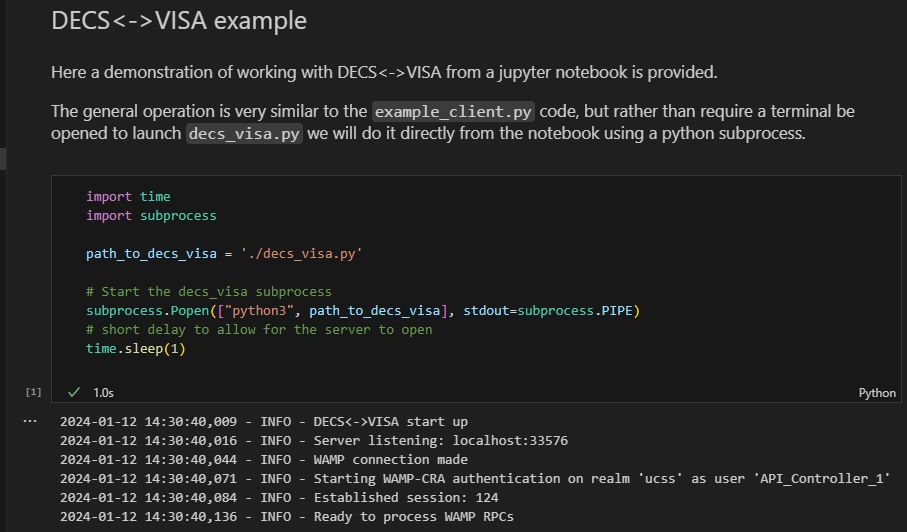
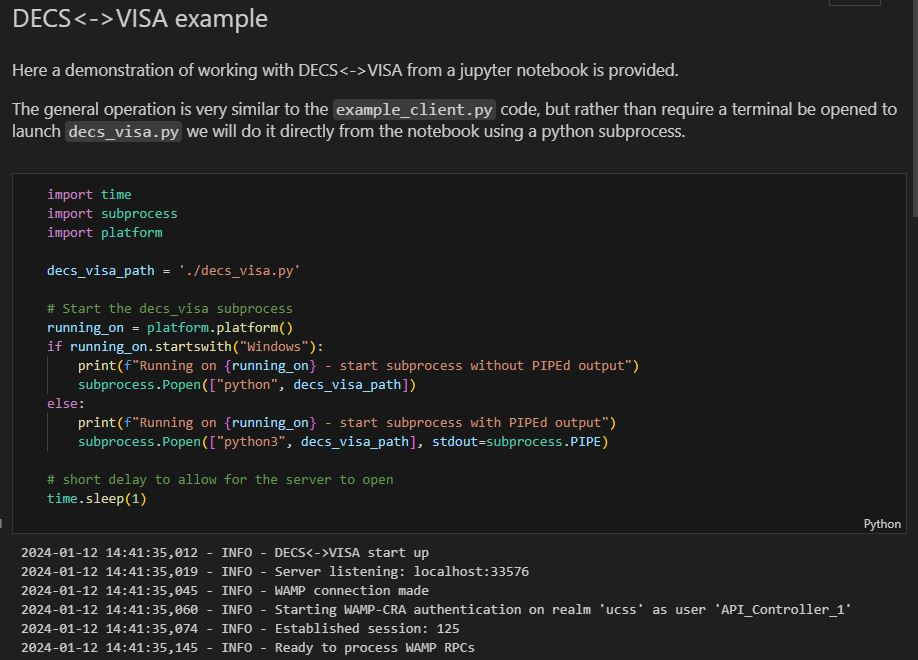
Tidy up and typo fix

diff --git a/src/decs_visa_tools/command_dictionary.py b/src/decs_visa_tools/command_dictionary.py
@@ -48,16 +48,16 @@ Proteox_cmd_uri = {
     "get_P5_P"          : "oi.decs.proteox.3CL_PG_05.pressure",
     "get_P6_P"          : "oi.decs.proteox.3CL_PG_06.pressure",
     "get_MAG_T"         : "oi.decs.magnetic_field_control.MAG_MSP_S.temperature",
-    "get_MAG_VEC"        : "oi.decs.magnetic_field_control.VRM_01.magnetic_field_vector",
-    "get_MAG_STATE"      : "oi.decs.magnetic_field_control.VRM_01.state",
-    "get_SWZ_STATE"      : "oi.decs.magnetic_field_control.VRM_01.SWZ.state",
-    "set_MAG_TARGET"     : "oi.decs.magnetic_field_control.VRM_01.set_field_target",
-    "set_MAG_STATE"      : "oi.decs.magnetic_field_control.VRM_01.set_state",
-    "set_MAG_X_STATE"    : "oi.decs.magnetic_field_control.VRM_01.MAG_X.set_state",
-    "set_MAG_Y_STATE"    : "oi.decs.magnetic_field_control.VRM_01.MAG_Y.set_state",
-    "set_MAG_Z_STATE"    : "oi.decs.magnetic_field_control.VRM_01.MAG_Z.set_state",
-    "get_MAG_CURR_VEC"   : "oi.decs.magnetic_field_control.VRM_01.current_vector",
-    "set_CURR_TARGET"    : "oi.decs.magnetic_field_control.VRM_01.set_output_current_target",
+    "get_MAG_VEC"       : "oi.decs.magnetic_field_control.VRM_01.magnetic_field_vector",
+    "get_MAG_STATE"     : "oi.decs.magnetic_field_control.VRM_01.state",
+    "get_SWZ_STATE"     : "oi.decs.magnetic_field_control.VRM_01.SWZ.state",
+    "set_MAG_TARGET"    : "oi.decs.magnetic_field_control.VRM_01.set_field_target",
+    "set_MAG_STATE"     : "oi.decs.magnetic_field_control.VRM_01.set_state",
+    "set_MAG_X_STATE"   : "oi.decs.magnetic_field_control.VRM_01.MAG_X.set_state",
+    "set_MAG_Y_STATE"   : "oi.decs.magnetic_field_control.VRM_01.MAG_Y.set_state",
+    "set_MAG_Z_STATE"   : "oi.decs.magnetic_field_control.VRM_01.MAG_Z.set_state",
+    "get_MAG_CURR_VEC"  : "oi.decs.magnetic_field_control.VRM_01.current_vector",
+    "set_CURR_TARGET"   : "oi.decs.magnetic_field_control.VRM_01.set_output_current_target",
     "PUBLISH"           : "oi.decs.proteox.eventlog",
     "get_a_WAMP_error"  : "oi.decs.THIS_WONT_WORK", # used for testing only
     "set_a_WAMP_error"  : "oi.decs.THIS_WONT_WORK"

diff --git a/src/decs_visa_tools/base_logger.py b/src/decs_visa_tools/base_logger.py
@@ -1,29 +1,30 @@
 """
 Logging module
 """
- 
+
 import logging
 import platform
- 
+
 # Set up logs
 logger = logging.getLogger(__name__)
- 
+
 # Log everything / something
 #logger.setLevel(logging.DEBUG)
 logger.setLevel(logging.INFO)
+
 formatter = logging.Formatter('%(asctime)s - %(levelname)s - %(message)s')
- 
+
 running_on = platform.platform()
 if running_on.startswith("Windows"):
     fh = logging.FileHandler('decs_visa.log')
     fh.setLevel(logging.DEBUG)
     fh.setFormatter(formatter)
     logger.addHandler(fh)
-    logger.info(f'OS is: {running_on}')
+    logger.info("OS is: %s", running_on)
 else:
-    # For now, log to console (to allow PIPEd output)
+    # log to console (to allow PIPEd output)
     ch = logging.StreamHandler()
     ch.setLevel(logging.DEBUG)
     ch.setFormatter(formatter)
     logger.addHandler(ch)
-    logger.info(f'OS is: {running_on}')
+    logger.info("OS is: %s", running_on)

diff --git a/src/decs_visa_components/wamp_component.py b/src/decs_visa_components/wamp_component.py
@@ -3,8 +3,6 @@ The WAMP portion of the DECS<->VISA implementation
 """
 import asyncio
 import queue
-#from typing import Optional
-#from typing import cast
 
 from autobahn.asyncio.wamp import ApplicationSession
 from autobahn.wamp import exception as wamp_exceptions
@@ -287,7 +285,7 @@ class Component(ApplicationSession):
                         host_version_full = await self.checked_rpc(rpc_uri)
                         version = str(host_version_full.results[0])
                         logger.debug("Extractracted values: %s", version)
-                        idn_string = f"Oxford Instruments, oi:DECS, {host_name}, {version}"
+                        idn_string = f"Oxford Instruments, oi.DECS, {host_name}, {version}"
                         logger.debug("IDN string: %s", idn_string)
                         r.put(idn_string)
                     except Exception:

diff --git a/README.md b/README.md
@@ -1,16 +1,16 @@
 # DECS<->VISA
 
-A simple TCP socket server as a WAMP wrapper for communication with oi:DECS based systems.
+A simple TCP socket server as a WAMP wrapper for communication with oi.DECS based systems.
 
 ## Motivation
 
-Given that oi:DECS based systems already expose an API *via* [WAMP](https://wamp-proto.org/) (a WebSocket sub-protocol) which provides multi-user support, authentication, authorisation, both routed remote procedure call (rRPC) and publish-subscribe messaging paradigms, and allows for efficient asynchronous (event-driven) interactions; an obvious question may be: why not just use that?
+Given that oi.DECS based systems already expose an API *via* [WAMP](https://wamp-proto.org/) (a WebSocket sub-protocol) which provides multi-user support, authentication, authorisation, both routed remote procedure call (rRPC) and publish-subscribe messaging paradigms, and allows for efficient asynchronous (event-driven) interactions; an obvious question may be: why not just use that?
 
-In essence, because it is often the case that an oi:DECS based system (such as dilution refrigerator) is used as part of a larger measurement / data acquisition system, often including programmable instruments.  Many of these instruments will conform to standards, such as the Virtual Instrument Software Architecture (VISA).
+In essence, because it is often the case that an oi.DECS based system (such as dilution refrigerator) is used as part of a larger measurement / data acquisition system, often including programmable instruments.  Many of these instruments will conform to standards, such as the Virtual Instrument Software Architecture (VISA).
 
-The intention of the DECS<->VISA interface is to allow 'straightforward' integration of oi:DECS based systems with other instrumentation, or existing measurement automation / data acquisition software that may have been written around the operation of traditional programmable instruments.
+The intention of the DECS<->VISA interface is to allow 'straightforward' integration of oi.DECS based systems with other instrumentation, or existing measurement automation / data acquisition software that may have been written around the operation of traditional programmable instruments.
 
-DECS<->VISA is also the basis for the oi:DECS [QCoDeS](http://microsoft.github.io/Qcodes/) driver.
+DECS<->VISA is also the basis for the oi.DECS [QCoDeS](http://microsoft.github.io/Qcodes/) driver.
 
 ## Concept
 
@@ -52,11 +52,9 @@ Add the system credentials (username and password) to WAMP_USER and WAMP_USER_SE
 
 Keeping this password in the `.env` file means that this information is kept separate from your code - ensure your `.gitignore` file is updated so to not track this/these file(s).  You can create `.env` files from the dummy file template included in the `/src`.
 
-The `WAMP_ROUTER_URL` should be updated to reflect the network settings for the system installation. In place of `www.xxx.yyy.zzz`, add the IP address of your oiDECS system. The IP address for your system can be found from the 'System' tab on the oi:DECS GUI under 'About'.
+The `WAMP_ROUTER_URL` should be updated to reflect the network settings for the system installation. In place of `www.xxx.yyy.zzz`, add the IP address of your oi.DECS system. The IP address for your system can be found from the 'System' tab on the oi.DECS GUI under 'About'.
 
-All other details in the `.env` file are not to be changed.
-
-These details are used by the 'wamp_component' to establish a controlling session on the oi:DECS system.
+These details are used by the 'wamp_component' to establish a controlling session on the oi.DECS system.
 
 
 **2. The `decs_visa_tools/decs_visa_settings.py` file** - this contains general settings such as message delimiters and the path of your `.env` file.
@@ -65,7 +63,7 @@ The `decs_visa_settings.py` contains the lines:
 
 ````python
 #############################################
-#    Configuration settings required     #
+#     Configuration settings required       #
 #############################################
 
 # path to the system settings .env file
@@ -75,29 +73,17 @@ DOT_ENV_PATH = ".env"
 
 ##############################################
 ````
-Add the file path of your `.env` file here. This will allow you to maintain multiple '.env' files, perhaps for different system users, or to communicate with different oi:DECS based systems.
+Add the file path of your `.env` file here. This will allow you to maintain multiple '.env' files, perhaps for different system users, or to communicate with different oi.DECS based systems.
 
 **NB** whilst relative paths can be convenient, this can also be the cause of some subtle problems if `decs_visa` is launched from scripts in different system locations.  In this case an absolute path may be easier to manage. 
 
 The `decs_visa_settings.py` file is really only included as a convenience to ensure consistent settings between DECS<->VISA and the 'client' examples.
 
-## Operating system
-
-#### Linux and MAC
-When running on Linux or MAC, outputs from DECS<->VISA are displayed in your working python script, as shown in the image below. 
-
-![OS_MAC](./img/OS_MAC.png)
-
-#### Windows
-When running on Windows, outputs from DECS<->VISA are displayed in a `decsvisa.log` file, which will be created in your working directory. If struggling to estblish a connection between DECS<->VISA and oi:DECS, check the information captured in the `decsvisa.log` file.
-
-![OS_Windows](./img/OS_Windows.png)
-
 ## Details of decs_visa_components 
 
 #### The WAMP component
 
-The wamp_component runs the WAMP messaging loop.  In order for the DECS<->VISA to provide control over the oi:DECS system it much establish a 'controlling session'.  The wamp_component first attempts this, and if this fails will close DECS<->VISA.  The logging should provide details of why this failed:
+The wamp_component runs the WAMP messaging loop.  In order for the DECS<->VISA to provide control over the oi.DECS system it much establish a 'controlling session'.  The wamp_component first attempts this, and if this fails will close DECS<->VISA.  The logging should provide details of why this failed:
 
 e.g. Unknown user
 ````
@@ -151,7 +137,7 @@ SERVER_PORT="33576"
 ````
 `SERVER_PORT` is the port on which the server will listen.  `BIND_SERVER_TO_INTERFACE` controls where the server will listen.  This value is set to `localhost` (i.e. the loopback interface `127.0.0.1`) as a security measure.  This means the server will only accept connections from the machine on which DECS<->VISA is running (and established / authenticated the WAMP connection from).
 
-**_Caveat utilitor_:** It is possible to accept general network traffic if this value is changed to `""` but the price paid for that convenience is the possibility of an unwanted to connection that can send control commands to oi:DECS.
+**_Caveat utilitor_:** It is possible to accept general network traffic if this value is changed to `""` but the price paid for that convenience is the possibility of an unwanted to connection that can send control commands to oi.DECS.
 
 The server waits for messages to arrive from the socket connection.  Once this happens the message is placed onto a queue to be consumed by the wamp_component.
 
@@ -169,7 +155,7 @@ INFO - Client disconnected
 INFO - Server connection: ('127.0.0.1', 53570)
 ````
 
-The server is configured to accept only one connection at any time, but note, multiple instances of DECS<->VISA could be running on a single machine (each connecting to different oi:DECS based systems).  In this case the `.env` files for each instance should be updated to ensure that each socket server is exposing a unique port.
+The server is configured to accept only one connection at any time, but note, multiple instances of DECS<->VISA could be running on a single machine (each connecting to different oi.DECS based systems).  In this case the `.env` files for each instance should be updated to ensure that each socket server is exposing a unique port.
 
 **_Caveat utilitor_:** In this configuration users should be sure they are connecting to the correct system - the `*IDN?` query could be useful here!
 
@@ -204,7 +190,7 @@ If you wish to extend the functionality of the system to accommodate additional 
 
 ### The command dictionary
 
-Most oi:DECS systems expose a large number of WAMP uris - many of which may not be required to automate a measurement.
+Most oi.DECS systems expose a large number of WAMP uris - many of which may not be required to automate a measurement.
 
 The file `command_dictionary.py` contains a (set of) dictionaries that can map 'friendly' command aliases to full WAMP uris, e.g.
 
@@ -253,6 +239,7 @@ class OIRecordType(IntEnum):
     types to be accessed as enum values"""
     TEMPERATURE = 0
     PRESSURE = 10
+    ...
 ````
 
 An attempt is made to match the message response type against this enum. 
@@ -260,6 +247,7 @@ An attempt is made to match the message response type against this enum.
 ````python
 match data_record_type:
     case  OIRecordType.TEMPERATURE
+    ...
 ````
 
 And depending of the message type, the item(s) of most interest are packaged as a string to be returned by the socket_server to the client.
@@ -296,7 +284,7 @@ DEBUG - Forwarding Server Sending: 4.0
 
 ### Example client
 
-The `client_example.py` file has a simple TCP/IP client based on the `PyVISA` package that can be used to communicate with DECS<->VISA as a demonstration of how the oi:DECS system could be integrated with a typical VISA based automated measurement system.
+The `client_example.py` file has a simple TCP/IP client based on the `PyVISA` package that can be used to communicate with DECS<->VISA as a demonstration of how the oi.DECS system could be integrated with a typical VISA based automated measurement system.
 
 As a result, this example will likely be familiar to anybody who has used the programmable interface of any VISA type instrument.
 
@@ -333,7 +321,7 @@ pyvisa_connection = f"TCPIP0::{decs_visa_server_ip}::{decs_visa_server_port}::SO
 From the client_example the output should be a set of command and response pairs:
 
 ```
-*IDN? => Oxford Instruments, oi:DECS, decs-442a7b, 0.6.0.2338
+*IDN? => Oxford Instruments, oi.DECS, decs-442a7b, 0.6.0.2338
 get_PT2_T1 => 292.9033
 set_MC_T:4 => 4.0
 ...
@@ -350,3 +338,19 @@ The file `notebook_example.ipynb` contains an example of working with DECS<->VIS
 Details of this are included in that file directly.
 
 ![Notebook](./img/Notebook.jpg)
+
+#### Operating system
+
+
+##### Linux and MAC
+
+When running on Linux or MAC, outputs from DECS<->VISA subprocess are displayed (piped) in the notebook directly, as shown in the image below. 
+
+![OS_MAC](./img/OS_MAC.png)
+
+##### Windows
+
+When running on Windows, outputs from DECS<->VISA are stored in a `decs_visa.log` file, which will be created in your working directory. If struggling to establish a connection between DECS<->VISA and oi.DECS, check the information captured in the `decs_visa.log` file.
+
+![OS_Windows](./img/OS_Windows.png)
+
